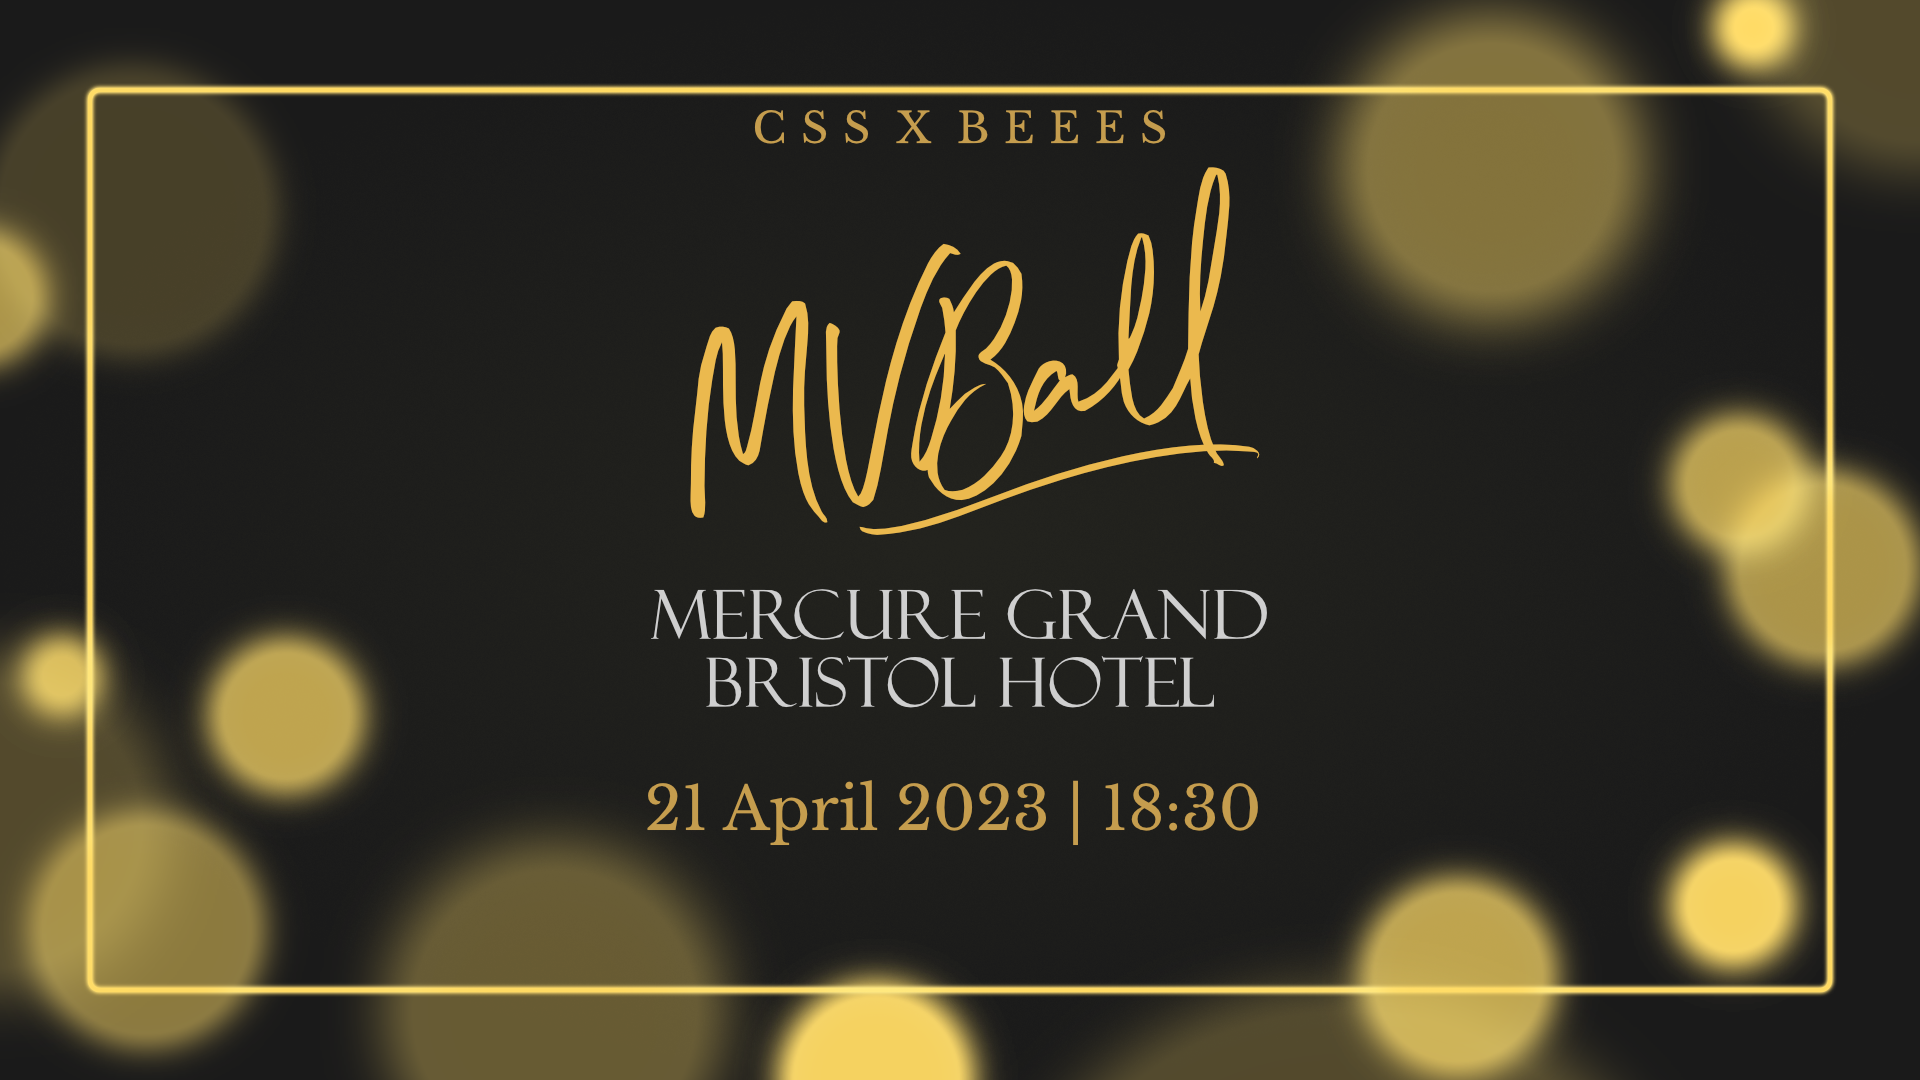
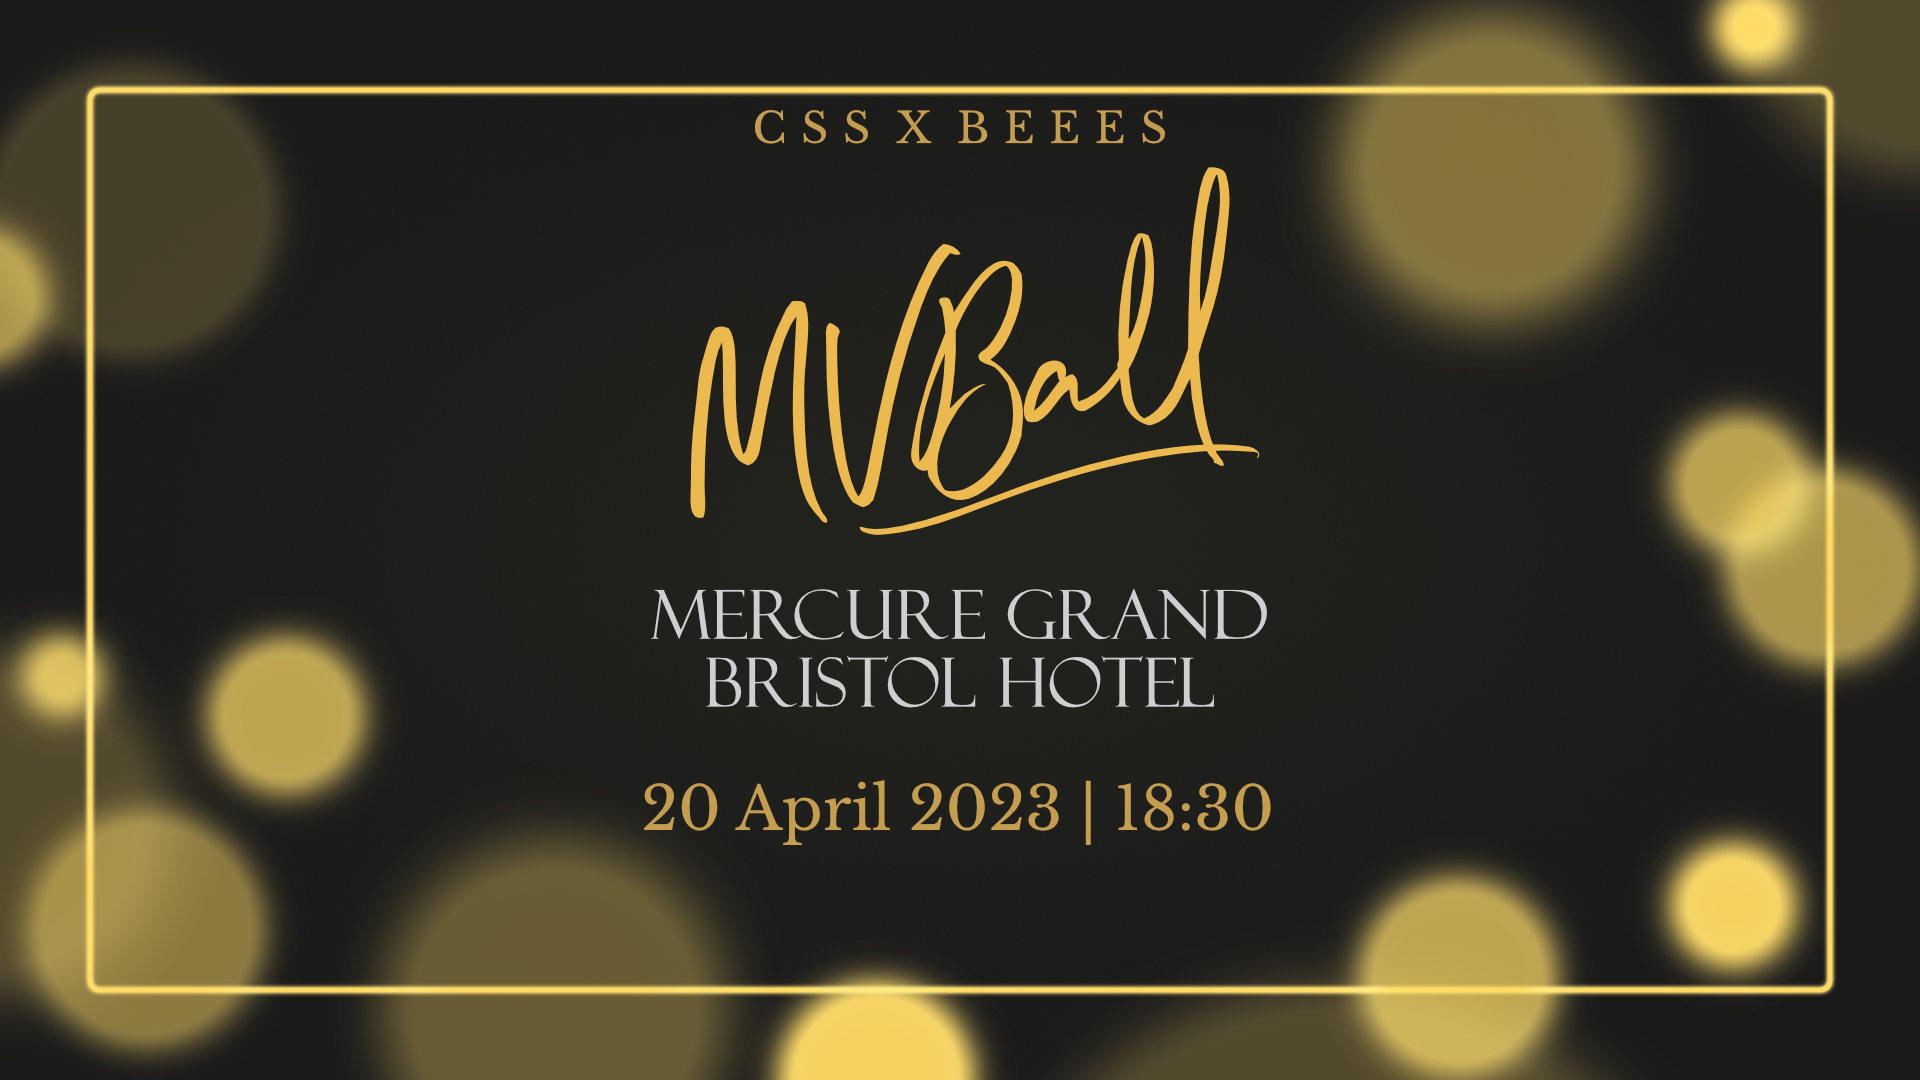
21st -> 20th

Changed region(s): [[0.3438, 0.7028, 0.6875, 0.7944]]

diff --git a/_events/2023-04-21-mvball.md b/_events/2023-04-21-mvball.md
@@ -2,8 +2,8 @@
 layout: event
 published: true
 title: MVBall - BEEESxCSS
-date:     2023-04-21 18:30:00 +0100
-date_end: 2023-04-21 23:59:59 +0100
+date:     2023-04-20 18:30:00 +0100
+date_end: 2023-04-20 23:59:59 +0100
 banner: 2023-04-21-mvball.png
 location: Mercure hotel 
 ticket_link:
